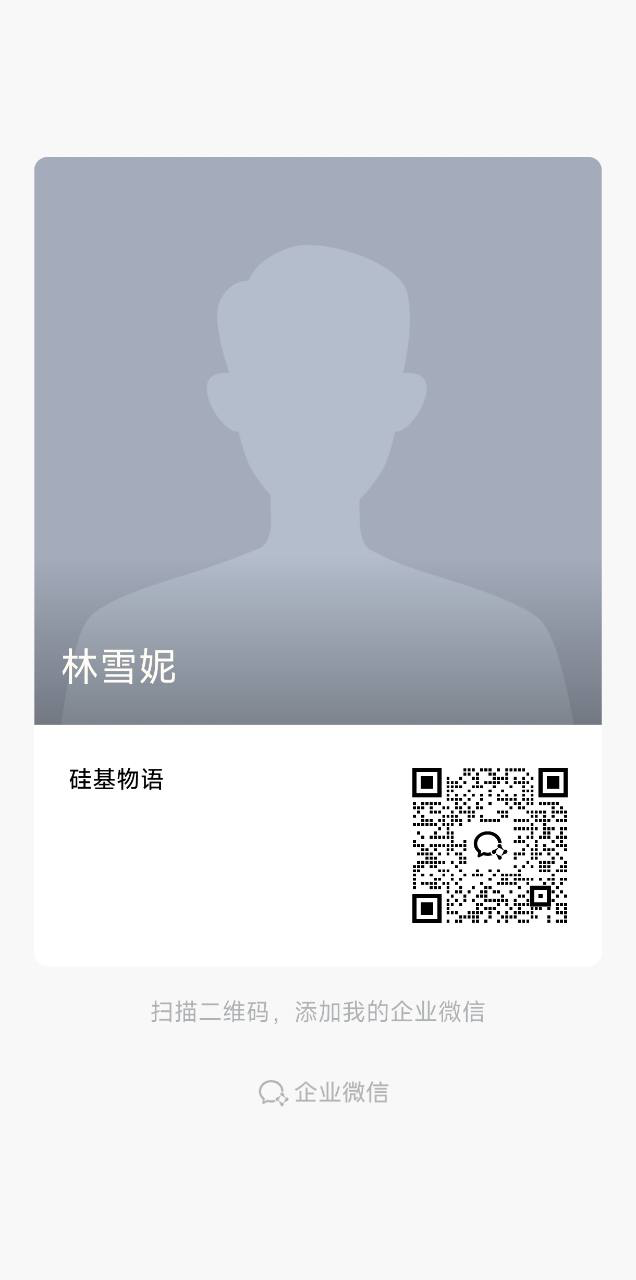
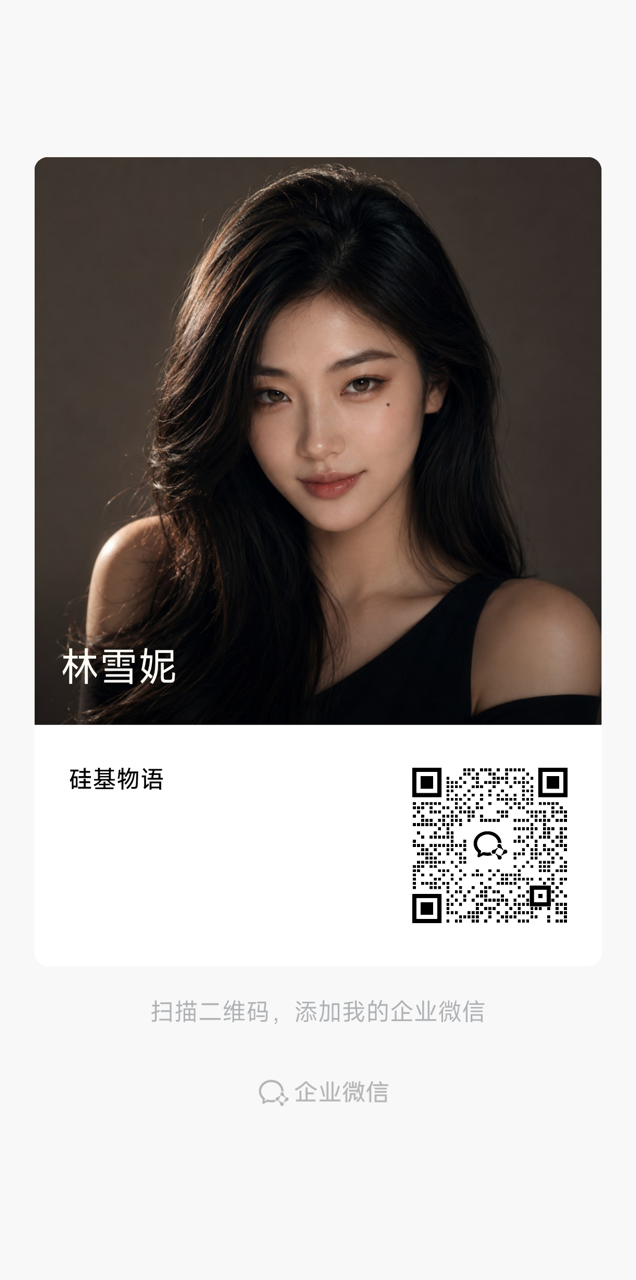
chore: update Lin Xueni WeCom card

diff --git a/index.html b/index.html
@@ -1069,7 +1069,7 @@
                 <svg viewBox="0 0 24 24"><line x1="18" y1="6" x2="6" y2="18"/><line x1="6" y1="6" x2="18" y2="18"/></svg>
             </button>
             <div class="wechat-modal-title">添加企业微信</div>
-            <div class="wechat-modal-qr"><img src="wechat-qr.png?v=20260716-linxueni" alt="林雪妮企业微信二维码" class="wechat-qr-img"></div>
+            <div class="wechat-modal-qr"><img src="wechat-qr.png?v=20260716-linxueni-new" alt="林雪妮企业微信二维码" class="wechat-qr-img"></div>
             <div class="wechat-modal-hint">扫码添加我的企业微信</div>
         </div>
     </div>
